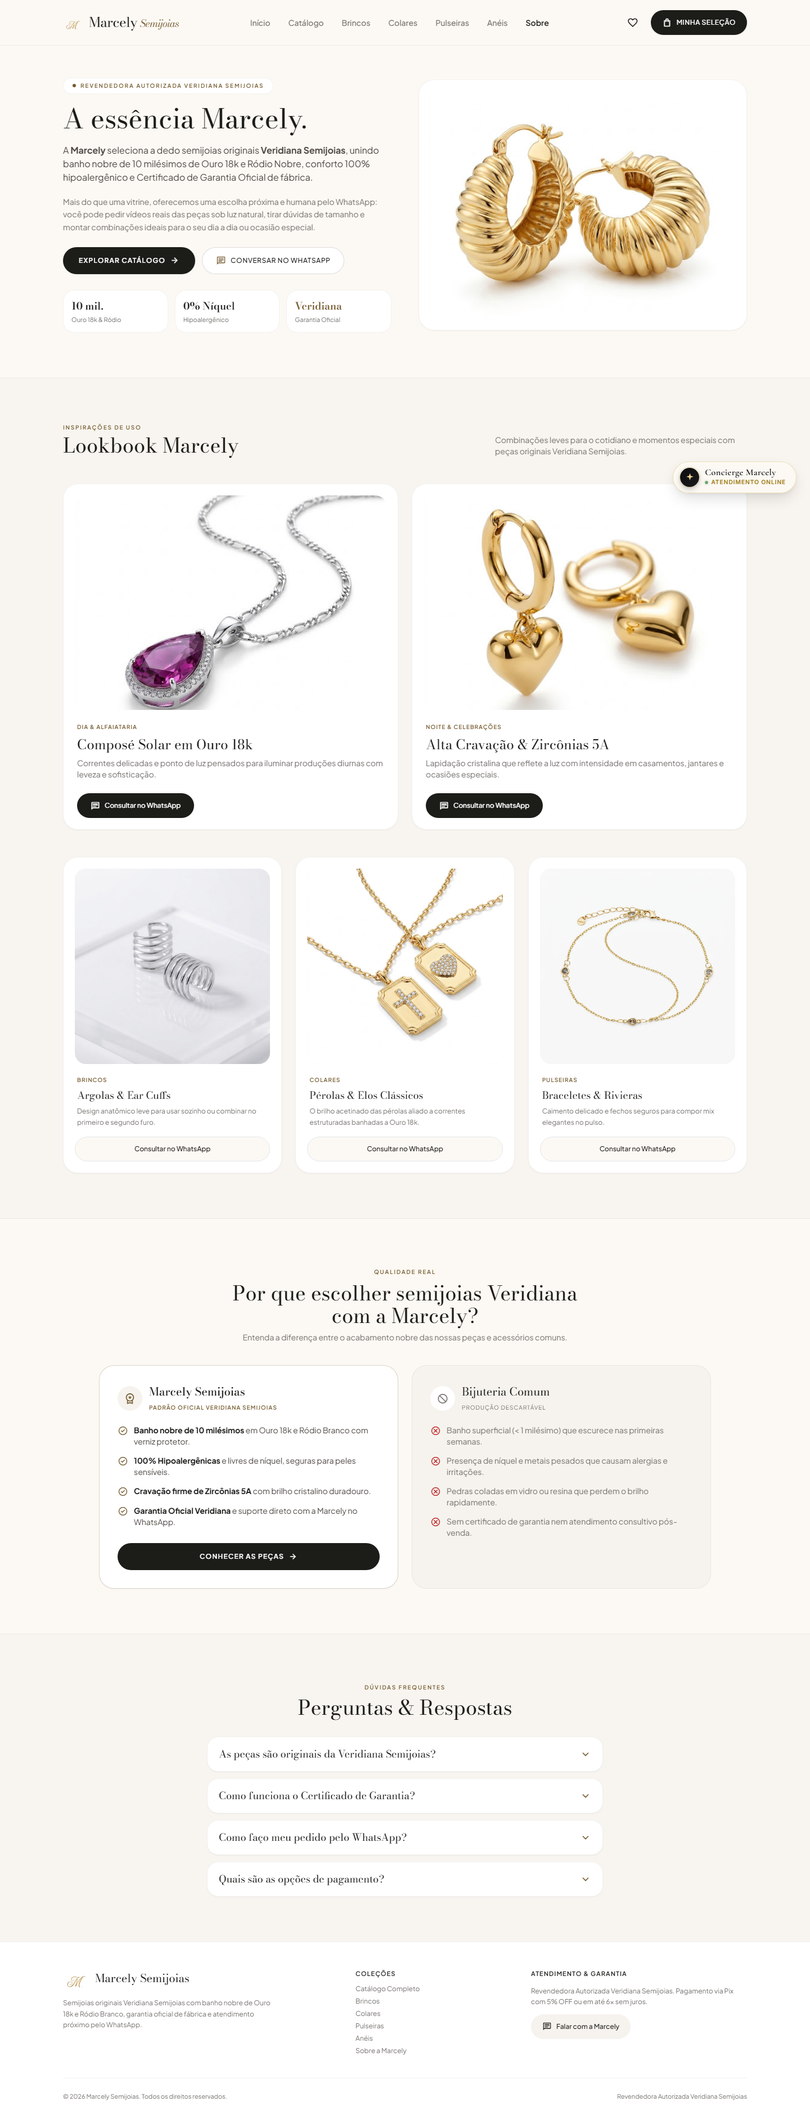
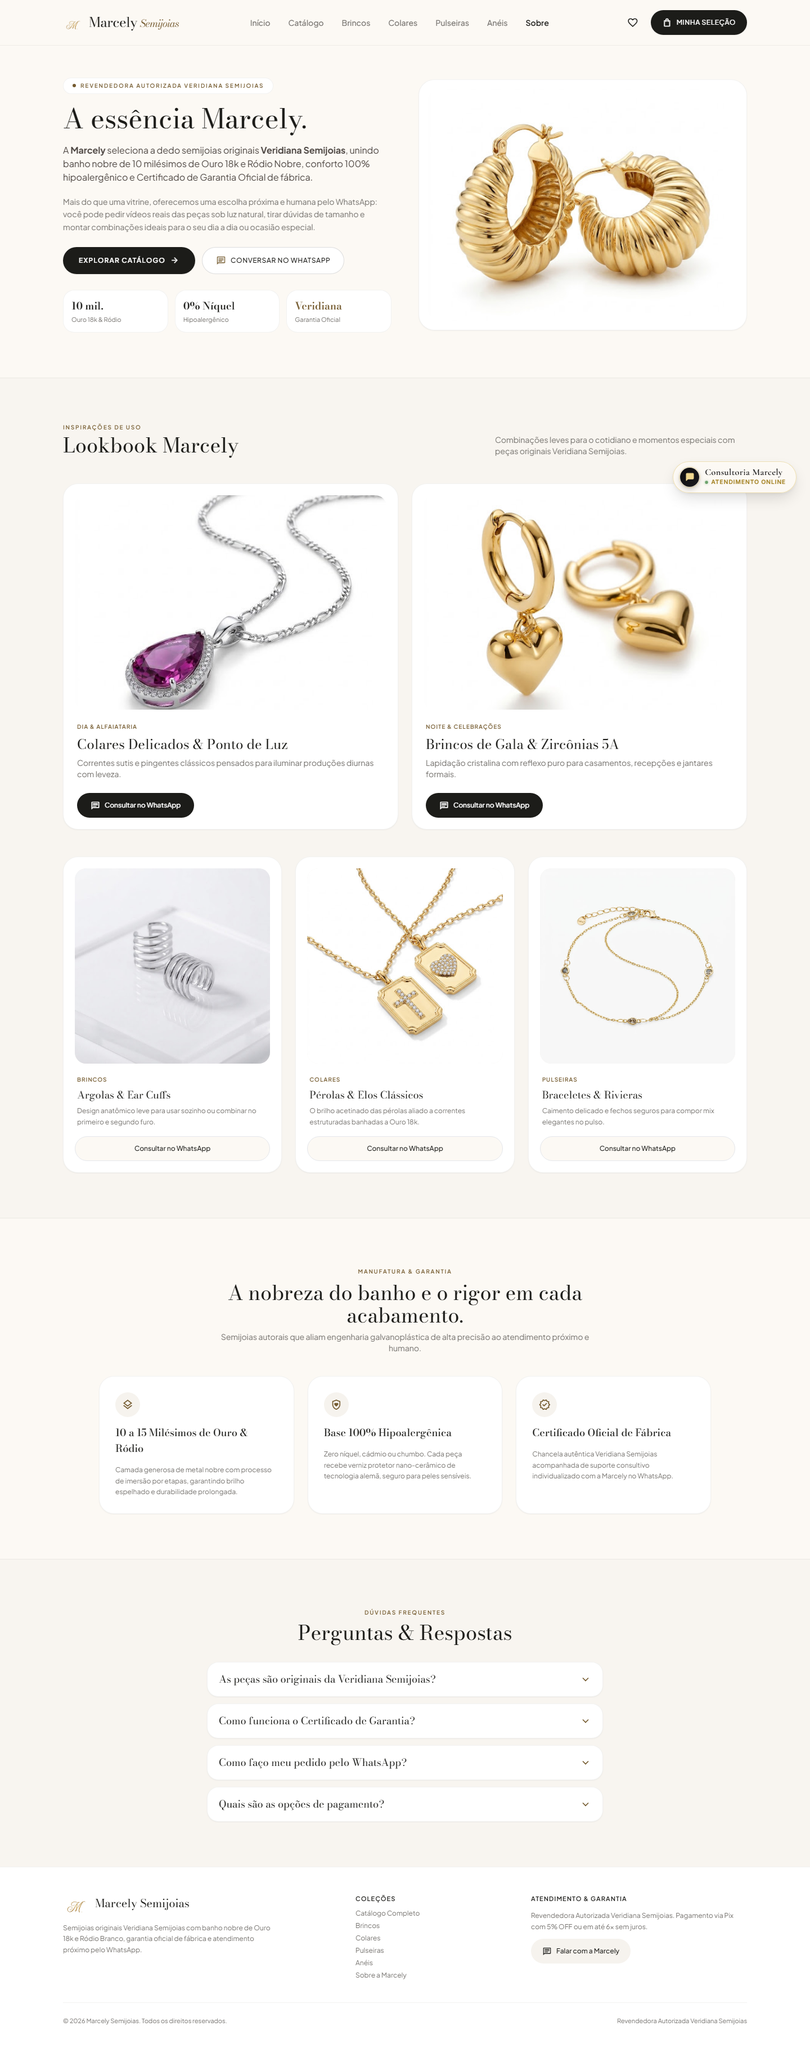
refactor: purge ai-slop patterns, replace saas comparison with craftsmanship pillars, and humanize concierge

diff --git a/site/sobre.html b/site/sobre.html
@@ -147,15 +147,11 @@
         <a href="sobre.html" aria-current="page" class="min-h-[44px] inline-flex items-center text-sm font-semibold text-[#1C1C19]">Sobre</a>
       </nav>
 
-      <!-- Direita Mobile: Busca, Concierge Assistente & Favoritos (Estilo Instagram App) -->
+      <!-- Direita Mobile: Busca & Favoritos (Estilo Instagram App) -->
       <div class="flex lg:hidden items-center gap-1 shrink-0">
         <a href="catalogo.html#catalogSearchInput" aria-label="Buscar no catálogo" class="w-11 h-11 rounded-full flex items-center justify-center text-[#1C1C19] hover:bg-[#F0EDE9] transition-colors">
           <svg width="21" height="21" viewBox="0 0 24 24" fill="none" stroke="currentColor" stroke-width="1.8" stroke-linecap="round" stroke-linejoin="round"><circle cx="11" cy="11" r="7"/><path d="m20 20-3.5-3.5"/></svg>
         </a>
-
-        <button type="button" onclick="window.MarcelyApp.openConciergeChat && window.MarcelyApp.openConciergeChat()" aria-label="Assistente de Estilo Marcely" class="w-11 h-11 rounded-full flex items-center justify-center text-[#1C1C19] hover:bg-[#F0EDE9] transition-colors">
-          <svg width="21" height="21" viewBox="0 0 24 24" fill="none" stroke="currentColor" stroke-width="1.8" stroke-linecap="round" stroke-linejoin="round"><path d="M9.937 15.5A2 2 0 0 0 8.5 14.063l-6.135-1.582a.5.5 0 0 1 0-.962L8.5 9.936A2 2 0 0 0 9.937 8.5l1.582-6.135a.5.5 0 0 1 .963 0L14.063 8.5A2 2 0 0 0 15.5 9.937l6.135 1.581a.5.5 0 0 1 0 .964L15.5 14.063a2 2 0 0 0-1.437 1.437l-1.582 6.135a.5.5 0 0 1-.963 0z"/><path d="M20 3v4"/><path d="M22 5h-4"/></svg>
-        </button>
 
         <a href="catalogo.html" aria-label="Peças Favoritas" class="w-11 h-11 rounded-full flex items-center justify-center text-[#1C1C19] hover:bg-[#1C1C19]/5 transition-colors relative">
           <svg width="21" height="21" viewBox="0 0 24 24" fill="none" stroke="currentColor" stroke-width="1.8" stroke-linecap="round" stroke-linejoin="round"><path d="M20.84 4.61a5.5 5.5 0 0 0-7.78 0L12 5.67l-1.06-1.06a5.5 5.5 0 0 0-7.78 7.78l1.06 1.06L12 21.23l7.78-7.78 1.06-1.06a5.5 5.5 0 0 0 0-7.78z"/></svg>
@@ -277,9 +273,9 @@
               </div>
               <div class="px-1 space-y-1.5">
                 <span class="text-[10px] uppercase tracking-widest text-[#745A2E] font-semibold">Dia &amp; Alfaiataria</span>
-                <h3 class="font-serif text-xl sm:text-2xl text-[#1C1C19]">Composé Solar em Ouro 18k</h3>
+                <h3 class="font-serif text-xl sm:text-2xl text-[#1C1C19]">Colares Delicados &amp; Ponto de Luz</h3>
                 <p class="text-xs sm:text-sm text-[#787571] leading-relaxed">
-                  Correntes delicadas e ponto de luz pensados para iluminar produções diurnas com leveza e sofisticação.
+                  Correntes sutis e pingentes clássicos pensados para iluminar produções diurnas com leveza.
                 </p>
               </div>
             </div>
@@ -299,9 +295,9 @@
               </div>
               <div class="px-1 space-y-1.5">
                 <span class="text-[10px] uppercase tracking-widest text-[#745A2E] font-semibold">Noite &amp; Celebrações</span>
-                <h3 class="font-serif text-xl sm:text-2xl text-[#1C1C19]">Alta Cravação &amp; Zircônias 5A</h3>
+                <h3 class="font-serif text-xl sm:text-2xl text-[#1C1C19]">Brincos de Gala &amp; Zircônias 5A</h3>
                 <p class="text-xs sm:text-sm text-[#787571] leading-relaxed">
-                  Lapidação cristalina que reflete a luz com intensidade em casamentos, jantares e ocasiões especiais.
+                  Lapidação cristalina com reflexo puro para casamentos, recepções e jantares formais.
                 </p>
               </div>
             </div>
@@ -381,87 +377,46 @@
     </section>
 
     <!-- ========================================================================
-         COMPARATIVO DE QUALIDADE CLEAN (rounded-3xl)
+         PADRAO TECNICO & MANUFATURA NOBRE (ALTA JOALHERIA)
          ======================================================================== -->
     <section id="qualidade" class="max-w-6xl mx-auto px-4 sm:px-6 lg:px-8 py-12 sm:py-20 space-y-8 sm:space-y-10">
       <div class="text-center max-w-2xl mx-auto space-y-2">
-        <span class="text-[10px] uppercase tracking-[0.18em] text-[#745A2E] font-semibold">Qualidade Real</span>
-        <h2 class="font-serif text-2xl sm:text-4xl text-[#1C1C19]">Por que escolher semijoias Veridiana com a Marcely?</h2>
+        <span class="text-[10px] uppercase tracking-[0.18em] text-[#745A2E] font-semibold">Manufatura &amp; Garantia</span>
+        <h2 class="font-serif text-2xl sm:text-4xl text-[#1C1C19]">A nobreza do banho e o rigor em cada acabamento.</h2>
         <p class="text-xs sm:text-sm text-[#787571] leading-relaxed">
-          Entenda a diferença entre o acabamento nobre das nossas peças e acessórios comuns.
+          Semijoias autorais que aliam engenharia galvanoplástica de alta precisão ao atendimento próximo e humano.
         </p>
       </div>
 
-      <div class="grid grid-cols-1 md:grid-cols-2 gap-5 sm:gap-6">
-        <!-- Padrao Marcely + Veridiana -->
-        <div class="rounded-3xl bg-white p-6 sm:p-8 border border-[#745A2E]/25 shadow-sm space-y-5">
-          <div class="flex items-center gap-3">
-            <div class="w-11 h-11 rounded-full bg-[#F6F3EE] flex items-center justify-center text-[#745A2E] shrink-0">
-              <span class="material-symbols-outlined text-[22px]">workspace_premium</span>
-            </div>
-            <div>
-              <h3 class="font-serif text-lg sm:text-xl text-[#1C1C19] font-medium">Marcely Semijoias</h3>
-              <span class="text-[10px] uppercase tracking-widest text-[#745A2E] font-semibold">Padrão Oficial Veridiana Semijoias</span>
-            </div>
+      <div class="grid grid-cols-1 md:grid-cols-3 gap-5 sm:gap-6">
+        <div class="rounded-3xl bg-white p-6 sm:p-7 border border-[#1C1C19]/[0.06] shadow-sm space-y-3.5">
+          <div class="w-11 h-11 rounded-full bg-[#F6F3EE] flex items-center justify-center text-[#745A2E]">
+            <span class="material-symbols-outlined text-[22px]">layers</span>
           </div>
-
-          <ul class="space-y-3.5 text-xs sm:text-sm">
-            <li class="flex items-start gap-2.5">
-              <span class="material-symbols-outlined text-[#745A2E] text-[19px] shrink-0 mt-0.5">check_circle</span>
-              <span class="text-[#4D4642]"><strong class="text-[#1C1C19]">Banho nobre de 10 milésimos</strong> em Ouro 18k e Ródio Branco com verniz protetor.</span>
-            </li>
-            <li class="flex items-start gap-2.5">
-              <span class="material-symbols-outlined text-[#745A2E] text-[19px] shrink-0 mt-0.5">check_circle</span>
-              <span class="text-[#4D4642]"><strong class="text-[#1C1C19]">100% Hipoalergênicas</strong> e livres de níquel, seguras para peles sensíveis.</span>
-            </li>
-            <li class="flex items-start gap-2.5">
-              <span class="material-symbols-outlined text-[#745A2E] text-[19px] shrink-0 mt-0.5">check_circle</span>
-              <span class="text-[#4D4642]"><strong class="text-[#1C1C19]">Cravação firme de Zircônias 5A</strong> com brilho cristalino duradouro.</span>
-            </li>
-            <li class="flex items-start gap-2.5">
-              <span class="material-symbols-outlined text-[#745A2E] text-[19px] shrink-0 mt-0.5">check_circle</span>
-              <span class="text-[#4D4642]"><strong class="text-[#1C1C19]">Garantia Oficial Veridiana</strong> e suporte direto com a Marcely no WhatsApp.</span>
-            </li>
-          </ul>
-
-          <div class="pt-2">
-            <a href="catalogo.html" class="w-full min-h-[48px] rounded-full bg-[#1C1C19] hover:bg-[#745A2E] text-white text-xs uppercase tracking-widest font-semibold flex items-center justify-center gap-2 transition-colors">
-              <span>Conhecer as peças</span>
-              <span class="material-symbols-outlined text-[16px]">arrow_forward</span>
-            </a>
-          </div>
+          <h3 class="font-serif text-lg text-[#1C1C19] font-medium">10 a 15 Milésimos de Ouro &amp; Ródio</h3>
+          <p class="text-xs text-[#787571] leading-relaxed">
+            Camada generosa de metal nobre com processo de imersão por etapas, garantindo brilho espelhado e durabilidade prolongada.
+          </p>
         </div>
 
-        <!-- Bijuteria Comum -->
-        <div class="rounded-3xl bg-[#F6F3EE] p-6 sm:p-8 border border-[#1C1C19]/[0.06] space-y-5">
-          <div class="flex items-center gap-3">
-            <div class="w-11 h-11 rounded-full bg-white flex items-center justify-center text-[#787571] shrink-0">
-              <span class="material-symbols-outlined text-[21px]">block</span>
-            </div>
-            <div>
-              <h3 class="font-serif text-lg sm:text-xl text-[#1C1C19]">Bijuteria Comum</h3>
-              <span class="text-[10px] uppercase tracking-widest text-[#787571]">Produção descartável</span>
-            </div>
+        <div class="rounded-3xl bg-white p-6 sm:p-7 border border-[#1C1C19]/[0.06] shadow-sm space-y-3.5">
+          <div class="w-11 h-11 rounded-full bg-[#F6F3EE] flex items-center justify-center text-[#745A2E]">
+            <span class="material-symbols-outlined text-[22px]">shield_with_heart</span>
           </div>
+          <h3 class="font-serif text-lg text-[#1C1C19] font-medium">Base 100% Hipoalergênica</h3>
+          <p class="text-xs text-[#787571] leading-relaxed">
+            Zero níquel, cádmio ou chumbo. Cada peça recebe verniz protetor nano-cerâmico de tecnologia alemã, seguro para peles sensíveis.
+          </p>
+        </div>
 
-          <ul class="space-y-3.5 text-xs sm:text-sm text-[#787571]">
-            <li class="flex items-start gap-2.5">
-              <span class="material-symbols-outlined text-[#BA1A1A] text-[19px] shrink-0 mt-0.5">cancel</span>
-              <span>Banho superficial (&lt; 1 milésimo) que escurece nas primeiras semanas.</span>
-            </li>
-            <li class="flex items-start gap-2.5">
-              <span class="material-symbols-outlined text-[#BA1A1A] text-[19px] shrink-0 mt-0.5">cancel</span>
-              <span>Presença de níquel e metais pesados que causam alergias e irritações.</span>
-            </li>
-            <li class="flex items-start gap-2.5">
-              <span class="material-symbols-outlined text-[#BA1A1A] text-[19px] shrink-0 mt-0.5">cancel</span>
-              <span>Pedras coladas em vidro ou resina que perdem o brilho rapidamente.</span>
-            </li>
-            <li class="flex items-start gap-2.5">
-              <span class="material-symbols-outlined text-[#BA1A1A] text-[19px] shrink-0 mt-0.5">cancel</span>
-              <span>Sem certificado de garantia nem atendimento consultivo pós-venda.</span>
-            </li>
-          </ul>
+        <div class="rounded-3xl bg-white p-6 sm:p-7 border border-[#1C1C19]/[0.06] shadow-sm space-y-3.5">
+          <div class="w-11 h-11 rounded-full bg-[#F6F3EE] flex items-center justify-center text-[#745A2E]">
+            <span class="material-symbols-outlined text-[22px]">verified</span>
+          </div>
+          <h3 class="font-serif text-lg text-[#1C1C19] font-medium">Certificado Oficial de Fábrica</h3>
+          <p class="text-xs text-[#787571] leading-relaxed">
+            Chancela autêntica Veridiana Semijoias acompanhada de suporte consultivo individualizado com a Marcely no WhatsApp.
+          </p>
         </div>
       </div>
     </section>

diff --git a/site/index.html b/site/index.html
@@ -125,15 +125,11 @@
 
       <!-- Right Actions: Mobile App Icons (< 1024px) & Desktop Pill (>= 1024px) -->
       <div class="flex items-center flex-shrink-0">
-        <!-- Mobile Top-Right Actions (Search, Concierge, Favorites) -->
+        <!-- Mobile Top-Right Actions (Search & Favorites) -->
         <div class="flex lg:hidden items-center gap-1">
           <a href="catalogo.html#catalogSearchInput" class="w-11 h-11 rounded-full flex items-center justify-center text-[#1C1C19] hover:bg-[#F0EDE9] transition-colors" aria-label="Buscar">
             <svg width="21" height="21" viewBox="0 0 24 24" fill="none" stroke="currentColor" stroke-width="1.8" stroke-linecap="round" stroke-linejoin="round"><circle cx="11" cy="11" r="7"/><path d="m20 20-3.5-3.5"/></svg>
           </a>
-
-          <button type="button" onclick="window.MarcelyApp.openConciergeChat && window.MarcelyApp.openConciergeChat()" class="w-11 h-11 rounded-full flex items-center justify-center text-[#1C1C19] hover:bg-[#F0EDE9] transition-colors" aria-label="Concierge">
-            <svg width="21" height="21" viewBox="0 0 24 24" fill="none" stroke="currentColor" stroke-width="1.8" stroke-linecap="round" stroke-linejoin="round"><path d="M9.937 15.5A2 2 0 0 0 8.5 14.063l-6.135-1.582a.5.5 0 0 1 0-.962L8.5 9.936A2 2 0 0 0 9.937 8.5l1.582-6.135a.5.5 0 0 1 .963 0L14.063 8.5A2 2 0 0 0 15.5 9.937l6.135 1.581a.5.5 0 0 1 0 .964L15.5 14.063a2 2 0 0 0-1.437 1.437l-1.582 6.135a.5.5 0 0 1-.963 0z"/><path d="M20 3v4"/><path d="M22 5h-4"/></svg>
-          </button>
 
           <a href="catalogo.html" class="w-11 h-11 rounded-full flex items-center justify-center text-[#1C1C19] hover:bg-[#F0EDE9] transition-colors relative" aria-label="Favoritos" title="Meus Favoritos">
             <svg width="21" height="21" viewBox="0 0 24 24" fill="none" stroke="currentColor" stroke-width="1.8" stroke-linecap="round" stroke-linejoin="round"><path d="M20.84 4.61a5.5 5.5 0 0 0-7.78 0L12 5.67l-1.06-1.06a5.5 5.5 0 0 0-7.78 7.78l1.06 1.06L12 21.23l7.78-7.78 1.06-1.06a5.5 5.5 0 0 0 0-7.78z"/></svg>
@@ -235,11 +231,11 @@
           </div>
 
           <h1 class="font-serif text-3xl sm:text-5xl lg:text-[3.5rem] leading-[1.1] tracking-tight text-[#1C1C19]">
-            Joias pensadas para iluminar <span class="italic font-normal text-[#745A2E]">cada detalhe</span> seu.
+            Semijoias em banho nobre de <span class="italic font-normal text-[#745A2E]">Ouro 18k</span> e Ródio.
           </h1>
 
           <p class="text-sm sm:text-lg text-[#4D4540] max-w-xl leading-relaxed">
-            Peças originais Veridiana Semijoias com banho de 10 milésimos de Ouro 18k e atendimento pessoal da Marcely direto no seu WhatsApp.
+            Curadoria autoral com acabamento de alta joalheria, base hipoalergênica e consultoria individual direto no WhatsApp.
           </p>
 
           <div class="flex flex-col sm:flex-row items-stretch sm:items-center gap-3 w-full sm:w-auto pt-1">
@@ -374,35 +370,35 @@
             </div>
           </div>
 
-          <!-- Clean Editorial Content & 3 Compact Steps -->
+          <!-- Clean Editorial Content & Consultation Pillars -->
           <div class="lg:col-span-7 space-y-6">
             <div class="inline-flex items-center gap-2 rounded-full bg-white px-4 py-1.5 text-[11px] font-medium uppercase tracking-widest text-[#745A2E]">
-              <span>Atendimento Pessoal &bull; Garantia Oficial Veridiana</span>
+              <span>Atendimento Consultivo &bull; Garantia Oficial Veridiana</span>
             </div>
 
             <h2 class="font-serif text-2xl sm:text-4xl text-[#1C1C19] leading-tight tracking-tight">
-              Compra leve, transparente e direto com a Marcely.
+              Consultoria individual e olhar atento a cada detalhe.
             </h2>
 
             <p class="text-sm sm:text-base text-[#4D4540] leading-relaxed">
-              Como revendedora autorizada Veridiana Semijoias, a Marcely seleciona peças com banho nobre de 10 milésimos de Ouro 18k e Ródio, 100% hipoalergênicas e acompanhadas de Certificado de Garantia.
+              Cada peça é apresentada com orientação próxima no WhatsApp: solicite vídeos reais sob luz natural, tire dúvidas de tamanho de aro e componha mixes harmônicos com a Marcely.
             </p>
 
-            <!-- 3 Compact Step Cards -->
+            <!-- 3 Editorial Pillars -->
             <div class="grid grid-cols-1 sm:grid-cols-3 gap-3">
               <div class="rounded-2xl bg-white p-4 border border-[#1C1C19]/[0.05]">
-                <p class="font-serif text-base font-medium text-[#1C1C19]">1. Escolha no catálogo</p>
-                <p class="text-xs text-[#787571] mt-1 leading-relaxed">Veja valores à vista com 5% OFF no Pix ou em até 6x sem juros.</p>
+                <p class="font-serif text-base font-medium text-[#1C1C19]">Vídeos em Luz Natural</p>
+                <p class="text-xs text-[#787571] mt-1 leading-relaxed">Aprecie o brilho real, proporções e acabamento antes de confirmar seu pedido.</p>
               </div>
 
               <div class="rounded-2xl bg-white p-4 border border-[#1C1C19]/[0.05]">
-                <p class="font-serif text-base font-medium text-[#1C1C19]">2. Envie em 1 clique</p>
-                <p class="text-xs text-[#787571] mt-1 leading-relaxed">Peça individualmente ou monte sua lista na Minha Seleção.</p>
+                <p class="font-serif text-base font-medium text-[#1C1C19]">Mixes Sob Medida</p>
+                <p class="text-xs text-[#787571] mt-1 leading-relaxed">Auxílio dedicado para acertar seu aro ou compor colares em camadas perfeitas.</p>
               </div>
 
               <div class="rounded-2xl bg-white p-4 border border-[#1C1C19]/[0.05]">
-                <p class="font-serif text-base font-medium text-[#1C1C19]">3. Fale com a Marcely</p>
-                <p class="text-xs text-[#787571] mt-1 leading-relaxed">Confirme disponibilidade, veja vídeos reais e combine a entrega.</p>
+                <p class="font-serif text-base font-medium text-[#1C1C19]">Garantia Oficial</p>
+                <p class="text-xs text-[#787571] mt-1 leading-relaxed">Joias originais Veridiana Semijoias com certificado autêntico de fábrica.</p>
               </div>
             </div>
 

diff --git a/site/produto.html b/site/produto.html
@@ -167,15 +167,11 @@
         <a href="sobre.html" class="min-h-[44px] inline-flex items-center text-sm font-medium text-[#787571] hover:text-[#1C1C19] transition-colors">Sobre</a>
       </nav>
 
-      <!-- Direita Mobile: Busca, Concierge Assistente & Favoritos (Estilo Instagram App) -->
-      <div class="flex lg:hidden items-center gap-0.5 shrink-0">
+      <!-- Direita Mobile: Busca & Favoritos (Estilo Instagram App) -->
+      <div class="flex lg:hidden items-center gap-1 shrink-0">
         <a href="catalogo.html#catalogSearchInput" aria-label="Buscar no catálogo" class="w-10 h-10 rounded-full flex items-center justify-center text-[#1C1C19] hover:bg-[#F0EDE9] transition-colors">
           <svg width="20" height="20" viewBox="0 0 24 24" fill="none" stroke="currentColor" stroke-width="1.8" stroke-linecap="round" stroke-linejoin="round"><circle cx="11" cy="11" r="7"/><path d="m20 20-3.5-3.5"/></svg>
         </a>
-
-        <button type="button" onclick="window.MarcelyApp.openConciergeChat && window.MarcelyApp.openConciergeChat()" aria-label="Assistente de Estilo Marcely" class="w-10 h-10 rounded-full flex items-center justify-center text-[#1C1C19] hover:bg-[#F0EDE9] transition-colors">
-          <svg width="20" height="20" viewBox="0 0 24 24" fill="none" stroke="currentColor" stroke-width="1.8" stroke-linecap="round" stroke-linejoin="round"><path d="M9.937 15.5A2 2 0 0 0 8.5 14.063l-6.135-1.582a.5.5 0 0 1 0-.962L8.5 9.936A2 2 0 0 0 9.937 8.5l1.582-6.135a.5.5 0 0 1 .963 0L14.063 8.5A2 2 0 0 0 15.5 9.937l6.135 1.581a.5.5 0 0 1 0 .964L15.5 14.063a2 2 0 0 0-1.437 1.437l-1.582 6.135a.5.5 0 0 1-.963 0z"/><path d="M20 3v4"/><path d="M22 5h-4"/></svg>
-        </button>
 
         <a href="catalogo.html" aria-label="Peças Favoritas" class="w-10 h-10 rounded-full flex items-center justify-center text-[#1C1C19] hover:bg-[#F0EDE9] transition-colors relative">
           <svg width="20" height="20" viewBox="0 0 24 24" fill="none" stroke="currentColor" stroke-width="1.8" stroke-linecap="round" stroke-linejoin="round"><path d="M20.84 4.61a5.5 5.5 0 0 0-7.78 0L12 5.67l-1.06-1.06a5.5 5.5 0 0 0-7.78 7.78l1.06 1.06L12 21.23l7.78-7.78 1.06-1.06a5.5 5.5 0 0 0 0-7.78z"/></svg>

diff --git a/site/catalogo.html b/site/catalogo.html
@@ -125,15 +125,11 @@
 
       <!-- Right Actions: Mobile App Icons (< 1024px) & Desktop Pill (>= 1024px) -->
       <div class="flex items-center flex-shrink-0">
-        <!-- Mobile Top-Right Actions (Search, Concierge, Favorites) -->
+        <!-- Mobile Top-Right Actions (Search & Favorites) -->
         <div class="flex lg:hidden items-center gap-1">
           <a href="catalogo.html#catalogSearchInput" onclick="const el=document.getElementById('catalogSearchInput');if(el){el.focus();}" class="w-11 h-11 rounded-full flex items-center justify-center text-[#1C1C19] hover:bg-[#F0EDE9] transition-colors" aria-label="Buscar">
             <svg width="21" height="21" viewBox="0 0 24 24" fill="none" stroke="currentColor" stroke-width="1.8" stroke-linecap="round" stroke-linejoin="round"><circle cx="11" cy="11" r="7"/><path d="m20 20-3.5-3.5"/></svg>
           </a>
-
-          <button type="button" onclick="window.MarcelyApp.openConciergeChat && window.MarcelyApp.openConciergeChat()" class="w-11 h-11 rounded-full flex items-center justify-center text-[#1C1C19] hover:bg-[#F0EDE9] transition-colors" aria-label="Concierge">
-            <svg width="21" height="21" viewBox="0 0 24 24" fill="none" stroke="currentColor" stroke-width="1.8" stroke-linecap="round" stroke-linejoin="round"><path d="M9.937 15.5A2 2 0 0 0 8.5 14.063l-6.135-1.582a.5.5 0 0 1 0-.962L8.5 9.936A2 2 0 0 0 9.937 8.5l1.582-6.135a.5.5 0 0 1 .963 0L14.063 8.5A2 2 0 0 0 15.5 9.937l6.135 1.581a.5.5 0 0 1 0 .964L15.5 14.063a2 2 0 0 0-1.437 1.437l-1.582 6.135a.5.5 0 0 1-.963 0z"/><path d="M20 3v4"/><path d="M22 5h-4"/></svg>
-          </button>
 
           <a href="catalogo.html" class="w-11 h-11 rounded-full flex items-center justify-center text-[#1C1C19] hover:bg-[#F0EDE9] transition-colors relative" aria-label="Favoritos" title="Meus Favoritos">
             <svg width="21" height="21" viewBox="0 0 24 24" fill="none" stroke="currentColor" stroke-width="1.8" stroke-linecap="round" stroke-linejoin="round"><path d="M20.84 4.61a5.5 5.5 0 0 0-7.78 0L12 5.67l-1.06-1.06a5.5 5.5 0 0 0-7.78 7.78l1.06 1.06L12 21.23l7.78-7.78 1.06-1.06a5.5 5.5 0 0 0 0-7.78z"/></svg>

diff --git a/site/concierge.js b/site/concierge.js
@@ -51,8 +51,8 @@
   }
 
   const ICONS = {
-    sparkle: `<svg class="concierge-trigger-icon" viewBox="0 0 24 24" fill="currentColor">
-      <path d="M12 2L14.2 8.8L21 11L14.2 13.2L12 20L9.8 13.2L3 11L9.8 8.8L12 2Z" />
+    chat: `<svg class="concierge-trigger-icon" viewBox="0 0 24 24" fill="none" stroke="currentColor" stroke-width="1.8" stroke-linecap="round" stroke-linejoin="round">
+      <path d="M21 15a2 2 0 0 1-2 2H7l-4 4V5a2 2 0 0 1 2-2h14a2 2 0 0 1 2 2z"></path>
     </svg>`,
     close: `<svg viewBox="0 0 24 24" fill="none" stroke="currentColor" stroke-width="2" stroke-linecap="round" stroke-linejoin="round">
       <line x1="18" y1="6" x2="6" y2="18"></line>
@@ -94,12 +94,12 @@
       root.id = 'marcely-concierge-root';
       root.innerHTML = `
         <!-- Botao Flutuante Trigger (Desktop) -->
-        <button id="marcely-concierge-trigger" type="button" aria-label="Abrir Concierge Marcely">
+        <button id="marcely-concierge-trigger" type="button" aria-label="Abrir Atendimento Marcely">
           <div class="concierge-trigger-icon-wrap">
-            ${ICONS.sparkle}
+            ${ICONS.chat}
           </div>
           <div class="concierge-trigger-text">
-            <span class="concierge-trigger-title">Concierge Marcely</span>
+            <span class="concierge-trigger-title">Consultoria Marcely</span>
             <span class="concierge-trigger-badge">
               <span class="concierge-pulse-dot"></span>
               Atendimento Online
